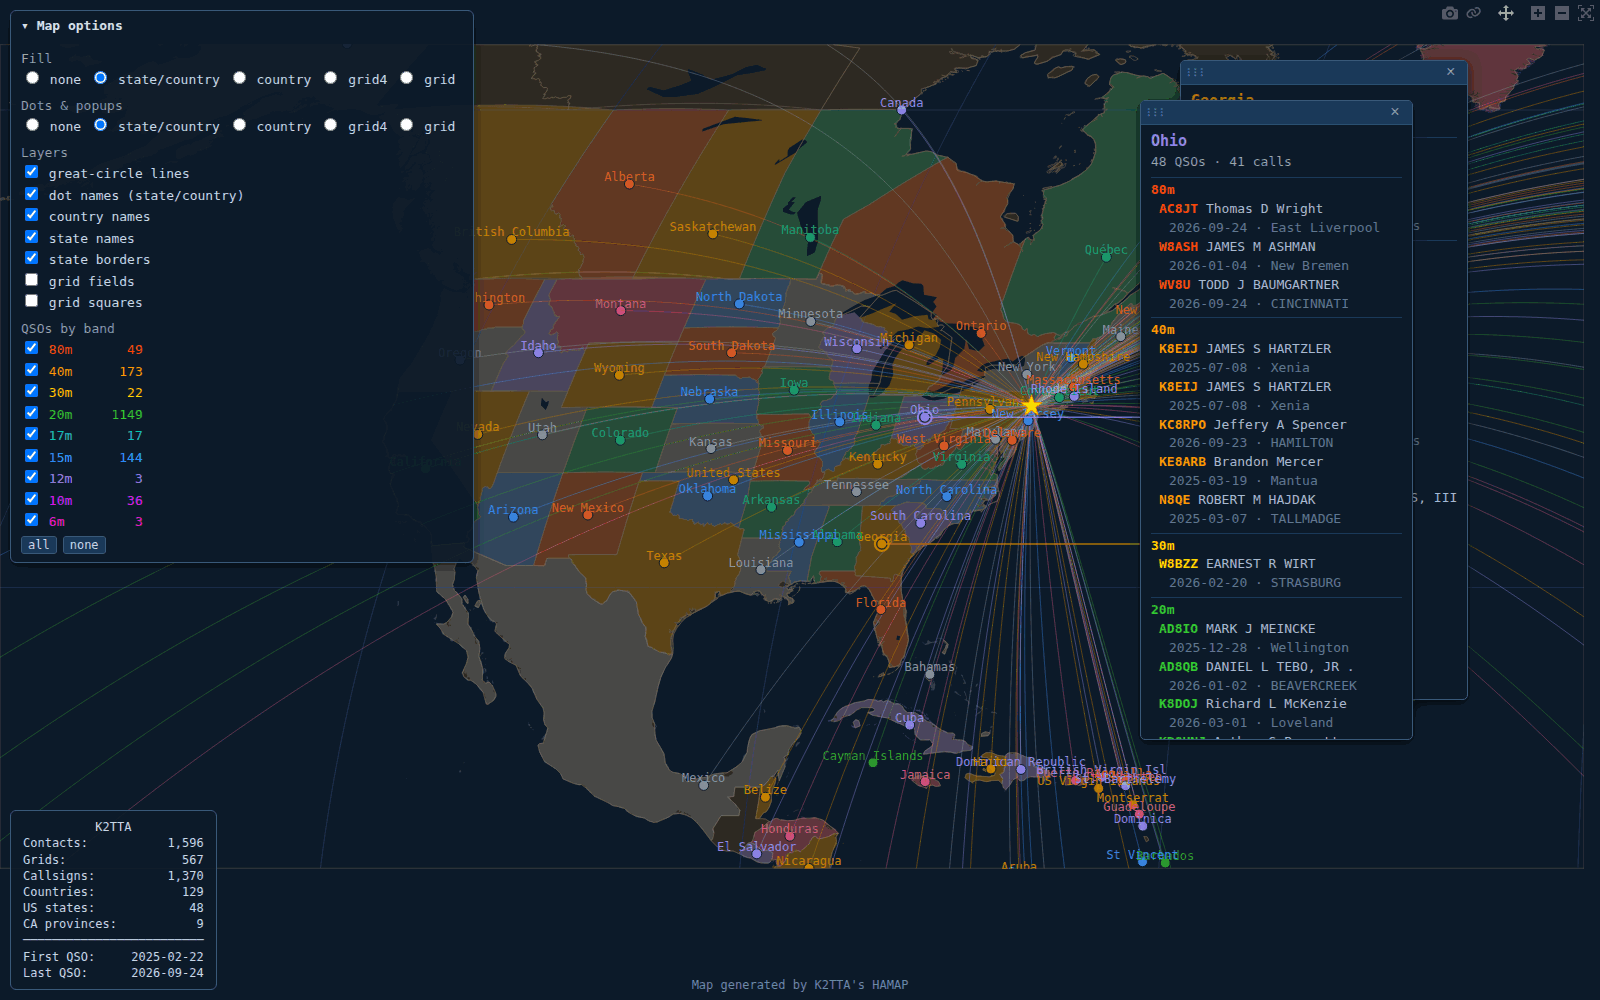
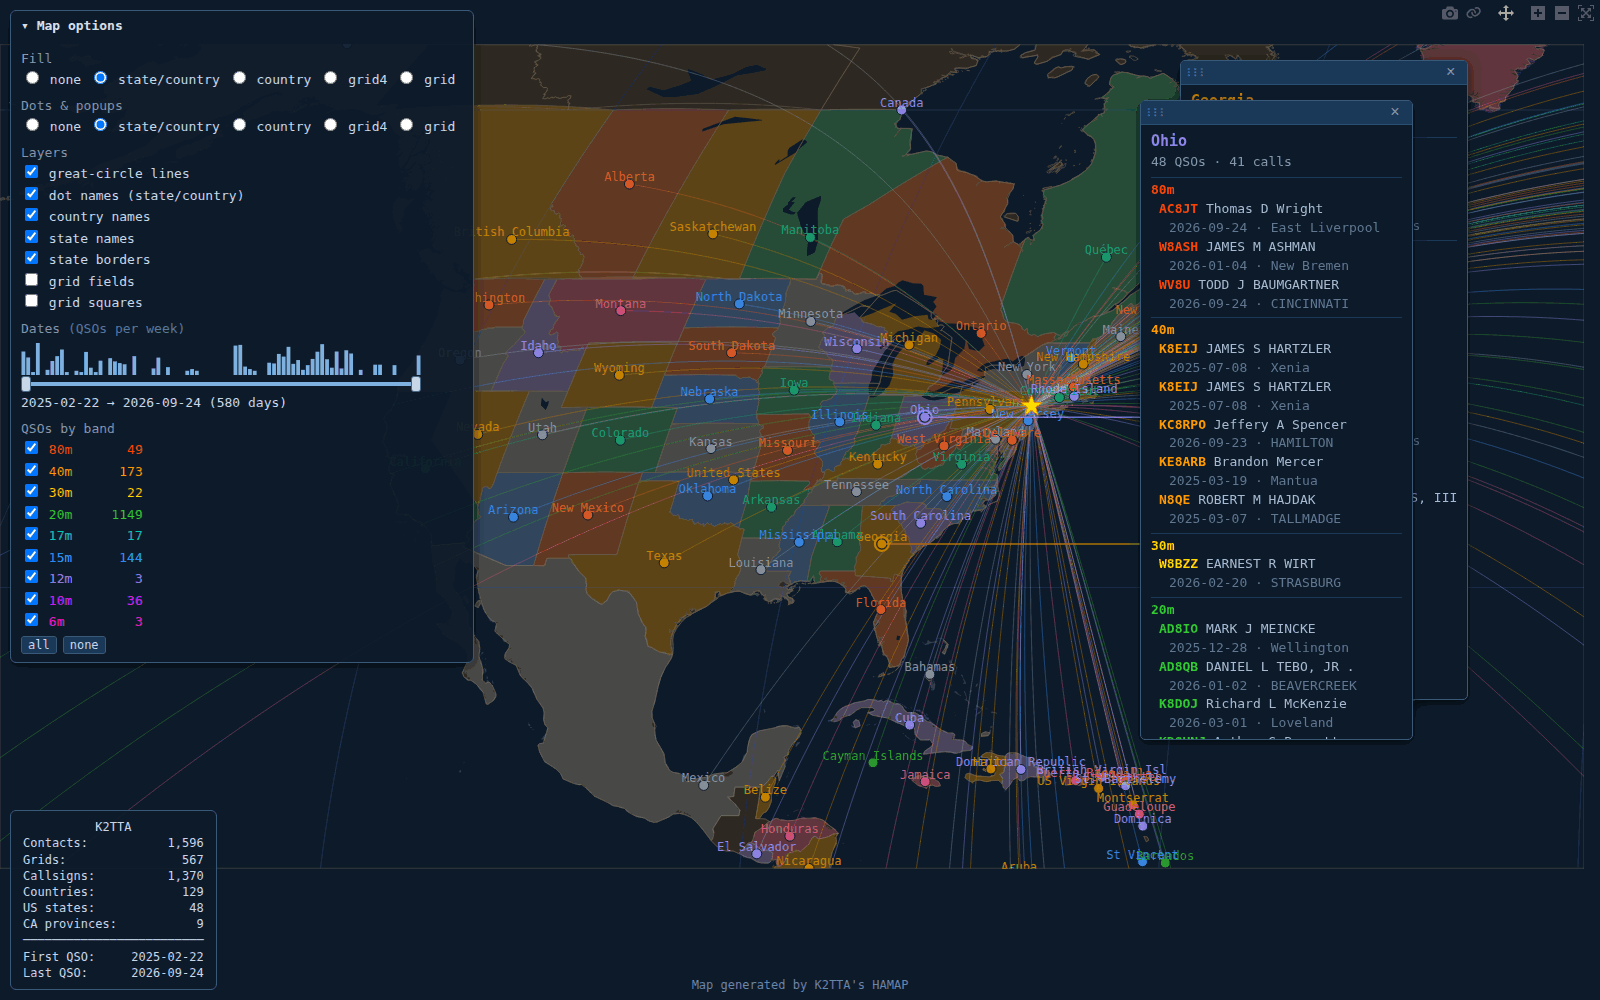
html date range

diff --git a/hamap.py b/hamap.py
@@ -1753,6 +1753,25 @@ def assign_colors(index, cu, groups, boxes_px, ll_to_px, char_px, log):
     return {k: REGION_PALETTE[color[k]] for k in keys}
 
 
+def _station_call(qsos_with_pos):
+    return next((qso.get(f) for qso, _ in qsos_with_pos
+                 for f in ('STATION_CALLSIGN', 'OPERATOR') if qso.get(f)), '')
+
+
+def _filter_rows(args):
+    """(label, value) rows describing the command-line QSO filters in effect."""
+    rows = []
+    if getattr(args, 'start', None):
+        rows.append(('Start:', _fmt_date(args.start)))
+    if getattr(args, 'end', None):
+        rows.append(('End:', _fmt_date(args.end)))
+    if getattr(args, 'tail_days', None) is not None:
+        rows.append(('Tail days:', f"{args.tail_days:,}"))
+    if getattr(args, 'tail', None) is not None:
+        rows.append(('Tail recs:', f"{args.tail:,}"))
+    return rows
+
+
 def _summary_text(qsos_with_pos, args, index=None):
     """Multi-line text for the statistics box (station, counts, dates, filters)."""
     total       = len(qsos_with_pos)
@@ -1766,8 +1785,7 @@ def _summary_text(qsos_with_pos, args, index=None):
 
     dates = sorted(qso.get('QSO_DATE', '') for qso, _ in qsos_with_pos
                    if qso.get('QSO_DATE'))
-    station = next((qso.get(f) for qso, _ in qsos_with_pos
-                    for f in ('STATION_CALLSIGN', 'OPERATOR') if qso.get(f)), '')
+    station = _station_call(qsos_with_pos)
 
     # (label, value) rows; None is a separator rule
     rows = [('Contacts:', f"{total:,}"),
@@ -1794,15 +1812,7 @@ def _summary_text(qsos_with_pos, args, index=None):
         rows += [None, ('First QSO:', _fmt_date(dates[0])),
                  ('Last QSO:', _fmt_date(dates[-1]))]
 
-    filter_rows = []
-    if getattr(args, 'start', None):
-        filter_rows.append(('Start:', _fmt_date(args.start)))
-    if getattr(args, 'end', None):
-        filter_rows.append(('End:', _fmt_date(args.end)))
-    if getattr(args, 'tail_days', None) is not None:
-        filter_rows.append(('Tail days:', f"{args.tail_days:,}"))
-    if getattr(args, 'tail', None) is not None:
-        filter_rows.append(('Tail recs:', f"{args.tail:,}"))
+    filter_rows = _filter_rows(args)
     if filter_rows:
         rows += [None] + filter_rows
 
@@ -2405,6 +2415,13 @@ def generate_html_plotly(qsos_with_pos, args, home_pos, out_path, log):
             'color': [pal_idx[U['colors'][k]] for k in U['keys']],
             'maj':   maj,
         }
+    # For live stats: real 4-char grids, real countries, US/CA regions
+    k4 = units['grid4']['keys']
+    payload_units['grid4']['real'] = [1 if re.match(r'^[A-R]{2}[0-9]{2}$', k) else 0 for k in k4]
+    payload_units['country']['real'] = [1 if k.startswith('C:') else 0
+                                        for k in units['country']['keys']]
+    payload_units['region']['kind'] = [k[:3] if k[:4] in ('USA-', 'CAN-') else ''
+                                       for k in units['region']['keys']]
 
     # [call, band, name, date, qth].  Deliberately no QSO time: the HTML is
     # meant to be shared, and exact contact times are too much to publish.
@@ -2588,7 +2605,8 @@ def generate_html_plotly(qsos_with_pos, args, home_pos, out_path, log):
         'bandCount': {b: band_qsos[b] for b in bands}, 'bandColor': band_clr,
         'home': list(home_pos) if home_pos else None,
         'lineAlpha': args.line_alpha, 'start': start,
-        'stats': _summary_text(qsos_with_pos, args, index),
+        'station': _station_call(qsos_with_pos).upper(),
+        'filters': _filter_rows(args),
     }
     script = ('var HAMAP = ' + json.dumps(payload, separators=(',', ':')) + ';\n'
               + _HTML_APP_JS)
@@ -2613,6 +2631,29 @@ _HTML_APP_JS = r"""
   var S = JSON.parse(JSON.stringify(H.start));
   S.bands = {}; H.bands.forEach(function (b) { S.bands[b] = true; });
   var pinned = {}, zTop = 10000, gd, panelOpen = true;
+
+  // ---- dates: QSO day numbers (days since 1970), full range, current range --
+  var NQ = H.qsos.length, qDay = new Array(NQ), dMin = Infinity, dMax = -Infinity;
+  function toDay(s) {
+    var m = /^(\d{4})-(\d{2})-(\d{2})$/.exec(s || '');
+    return m ? Date.UTC(+m[1], +m[2] - 1, +m[3]) / 864e5 : null;
+  }
+  function dayStr(d) { return new Date(d * 864e5).toISOString().slice(0, 10); }
+  for (var qi0 = 0; qi0 < NQ; qi0++) {
+    var d0 = toDay(H.qsos[qi0][3]); qDay[qi0] = d0;
+    if (d0 !== null) { if (d0 < dMin) dMin = d0; if (d0 > dMax) dMax = d0; }
+  }
+  var hasDates = dMin <= dMax;
+  S.from = dMin; S.to = dMax;
+  function fullRange() { return !hasDates || (S.from <= dMin && S.to >= dMax); }
+  var dateOk = new Uint8Array(NQ);            // per QSO: inside the date range?
+  function updateDateOk() {
+    var full = fullRange();
+    for (var i = 0; i < NQ; i++) {
+      // undated QSOs show only while the whole range is selected
+      dateOk[i] = full ? 1 : (qDay[i] !== null && qDay[i] >= S.from && qDay[i] <= S.to) ? 1 : 0;
+    }
+  }
   try { if (localStorage.getItem('hamap.panel') === '0') panelOpen = false; } catch (e) {}
 
   // ---- URL hash: #fill=..&dots=..&bands=20m,40m&lines=0&pin=Ohio ----------
@@ -2625,12 +2666,14 @@ _HTML_APP_JS = r"""
     else if (k === 'pin') pinReq = v.split(',');
     else if (k === 'panel') panelOpen = v !== '0';
     else if (k === 'view') S.view = v.split(',').map(Number);   // lat,lon,zoom
+    else if ((k === 'from' || k === 'to') && toDay(v) !== null && hasDates)
+      S[k] = Math.min(dMax, Math.max(dMin, toDay(v)));
     else if (k in S) S[k] = (v === '1' || v === 'true' || v === 'on');
   });
 
   function esc(s) { return String(s).replace(/[&<>"]/g, function (c) {
     return {'&': '&amp;', '<': '&lt;', '>': '&gt;', '"': '&quot;'}[c]; }); }
-  function active(qi) { return S.bands[H.qsos[qi][1]]; }
+  function active(qi) { return dateOk[qi] && S.bands[H.qsos[qi][1]]; }
   function groupActive(u, gi) { return H.units[u].q[gi].some(active); }
   function colorUnit() {
     var us = [S.dots, S.fill].filter(function (u) { return u && u !== 'none'; });
@@ -2664,6 +2707,8 @@ _HTML_APP_JS = r"""
   // ---- render: rebuild every dynamic trace from the state -----------------
   function render() {
     var D = gd.data;
+    if (S.from > S.to) { var t = S.from; S.from = S.to; S.to = t; }
+    updateDateOk();
     H.order.forEach(function (u) {
       var U = H.units[u], n = U.label.length;
       // fill
@@ -2716,6 +2761,7 @@ _HTML_APP_JS = r"""
     Plotly.react(gd, D, gd.layout);
     Object.keys(pinned).forEach(function (k) { pinned[k].refresh(); });
     if (gd) reposition();
+    updatePanelCounts();
     writeHash();
   }
 
@@ -2726,6 +2772,7 @@ _HTML_APP_JS = r"""
     ['lines', 'labels', 'cnames', 'snames', 'borders', 'gfields', 'gsquares'].forEach(function (k) {
       if (S[k] !== H.start[k]) h += '&' + k + '=' + (S[k] ? 1 : 0);
     });
+    if (!fullRange()) h += '&from=' + dayStr(S.from) + '&to=' + dayStr(S.to);
     if (S.view) h += '&view=' + S.view.map(function (x) { return +x.toFixed(2); }).join(',');
     history.replaceState(null, '', '#' + h);
   }
@@ -2739,7 +2786,7 @@ _HTML_APP_JS = r"""
     var h = '<div style="font-weight:bold;color:' + c + ';font-size:15px">' + esc(U.label[gi]) + '</div>'
           + '<div style="color:#8899aa;margin-bottom:6px">' + qs.length + ' QSO' + (qs.length === 1 ? '' : 's')
           + ' · ' + Object.keys(calls).length + ' call' + (Object.keys(calls).length === 1 ? '' : 's') + '</div>';
-    if (!qs.length) return h + '<div style="color:#8899aa">No QSOs on the selected bands</div>';
+    if (!qs.length) return h + '<div style="color:#8899aa">No QSOs on the selected bands / dates</div>';
     H.bands.forEach(function (b) {
       var rows = byBand[b]; if (!rows) return;
       rows.sort(function (x, y) { return (x[0] + x[3]).localeCompare(y[0] + y[3]); });
@@ -2892,12 +2939,14 @@ _HTML_APP_JS = r"""
       if (x[1] === 'lines' && !H.home) return;
       lay.appendChild(check(x[0], x[1])[0]); });
     body.appendChild(lay);
+    if (hasDates) body.appendChild(datesSection());
     var bd = document.createElement('div');
     bd.innerHTML = '<div style="color:#8899aa;margin-top:6px">QSOs by band</div>';
     var boxes = [];
     H.bands.forEach(function (b) {
-      var w = check((b + '        ').slice(0, 6) + String(H.bandCount[b]).padStart(6), '#' + b, H.bandColor[b]);
+      var w = check(bandLabel(b, H.bandCount[b]), '#' + b, H.bandColor[b]);
       w[0].style.whiteSpace = 'pre'; boxes.push([b, w[1]]); bd.appendChild(w[0]);
+      bandText[b] = w[0].lastChild;
     });
     var btns = document.createElement('div'); btns.style.marginTop = '3px';
     [['all', true], ['none', false]].forEach(function (x) {
@@ -2913,9 +2962,153 @@ _HTML_APP_JS = r"""
     return p;
   }
 
+  function statsText() {
+    var calls = {}, g4 = {}, ct = {}, us = {}, ca = {}, n = 0, lo = Infinity, hi = -Infinity;
+    for (var i = 0; i < NQ; i++) {
+      if (!active(i)) continue;
+      n++; calls[H.qsos[i][0]] = 1;
+      if (H.units.grid4.real[qUnit.grid4[i]]) g4[qUnit.grid4[i]] = 1;
+      if (H.units.country.real[qUnit.country[i]]) ct[qUnit.country[i]] = 1;
+      var kind = H.units.region.kind[qUnit.region[i]];
+      if (kind === 'USA') us[qUnit.region[i]] = 1; else if (kind === 'CAN') ca[qUnit.region[i]] = 1;
+      if (qDay[i] !== null) { if (qDay[i] < lo) lo = qDay[i]; if (qDay[i] > hi) hi = qDay[i]; }
+    }
+    function cnt(o) { return Object.keys(o).length.toLocaleString('en-US'); }
+    var rows = [['Contacts:', n.toLocaleString('en-US')], ['Grids:', cnt(g4)],
+                ['Callsigns:', cnt(calls)], ['Countries:', cnt(ct)]];
+    if (Object.keys(us).length) rows.push(['US states:', cnt(us)]);
+    if (Object.keys(ca).length) rows.push(['CA provinces:', cnt(ca)]);
+    if (lo <= hi) rows.push(null, ['First QSO:', dayStr(lo)], ['Last QSO:', dayStr(hi)]);
+    if (H.filters.length) { rows.push(null); rows = rows.concat(H.filters); }
+    var w = 0, vw = 0;
+    rows.forEach(function (r) { if (r) { w = Math.max(w, r[0].length + 2); vw = Math.max(vw, r[1].length); } });
+    var out = [];
+    if (H.station) {
+      var pad = Math.max(0, w + vw - H.station.length), l = Math.floor(pad / 2);
+      out.push(' '.repeat(l) + H.station + ' '.repeat(pad - l));
+    }
+    rows.forEach(function (r) {
+      out.push(r ? (r[0] + ' '.repeat(w)).slice(0, w) + (' '.repeat(vw) + r[1]).slice(-vw)
+                 : '\u2500'.repeat(w + vw));
+    });
+    return out.join('\n');
+  }
+
+  var bandText = {}, statsEl = null, dateUI = null;
+  function bandLabel(b, n) { return (b + '        ').slice(0, 6) + String(n).padStart(6); }
+
+  // QSO index → group index, per unit (for live stats)
+  var qUnit = {};
+  H.order.forEach(function (u) {
+    var a = new Int32Array(NQ);
+    H.units[u].q.forEach(function (qs, gi) { qs.forEach(function (qi) { a[qi] = gi; }); });
+    qUnit[u] = a;
+  });
+
+  // ---- Dates: activity histogram + two-handle day slider ---------------------
+  function datesSection() {
+    var span = dMax - dMin + 1, bin = span <= 120 ? 1 : span <= 1100 ? 7 : 30;
+    var nb = Math.ceil(span / bin), W = 400, Hh = 34, dpr = window.devicePixelRatio || 1;
+    var d = document.createElement('div');
+    d.innerHTML = '<div style="color:#8899aa;margin-top:6px">Dates <span style="color:#5a7a9a">'
+      + '(QSOs per ' + (bin === 1 ? 'day' : bin === 7 ? 'week' : 'month') + ')</span></div>';
+    var cv = document.createElement('canvas');
+    cv.width = W * dpr; cv.height = Hh * dpr;
+    cv.style.cssText = 'display:block;width:' + W + 'px;height:' + Hh + 'px;margin-top:3px';
+    var wrap = document.createElement('div');
+    wrap.style.cssText = 'position:relative;width:' + W + 'px;height:18px';
+    var track = document.createElement('div');
+    track.style.cssText = 'position:absolute;left:0;right:0;top:8px;height:2px;background:#2a4058';
+    var sel = document.createElement('div');
+    sel.style.cssText = 'position:absolute;top:7px;height:4px;background:#7fb0e0;border-radius:2px';
+    wrap.appendChild(track); wrap.appendChild(sel);
+    function slider(key) {
+      var r = document.createElement('input');
+      r.type = 'range'; r.className = 'hm-range'; r.min = dMin; r.max = dMax; r.step = 1;
+      r.value = S[key];
+      r.oninput = function () {
+        S[key] = +r.value;
+        // a handle pushes the other along instead of stopping at it, so two
+        // handles on the same day can always be pulled apart again
+        if (S.from > S.to) {
+          if (key === 'from') { S.to = S.from; dateUI.rTo.value = S.to; }
+          else { S.from = S.to; dateUI.rFrom.value = S.from; }
+        }
+        drawDates(); scheduleRender();
+      };
+      r.onchange = function () { renderNow(); };
+      wrap.appendChild(r);
+      return r;
+    }
+    var rFrom = slider('from'), rTo = slider('to');
+    var lab = document.createElement('div');
+    lab.style.cssText = 'display:flex;justify-content:space-between;width:' + W + 'px;color:#c8d8e8';
+    var txt = document.createElement('span');
+    var rst = document.createElement('a');
+    rst.textContent = 'all dates'; rst.href = '#';
+    rst.style.cssText = 'color:#6a9ac8;text-decoration:none';
+    rst.onclick = function (e) {
+      e.preventDefault(); S.from = dMin; S.to = dMax; rFrom.value = dMin; rTo.value = dMax;
+      drawDates(); renderNow();
+    };
+    lab.appendChild(txt); lab.appendChild(rst);
+    d.appendChild(cv); d.appendChild(wrap); d.appendChild(lab);
+    dateUI = {cv: cv, sel: sel, txt: txt, rst: rst, rFrom: rFrom, rTo: rTo,
+              bin: bin, nb: nb, W: W, H: Hh, dpr: dpr, counts: null};
+    return d;
+  }
+
+  function histCounts() {          // QSOs on ticked bands, per bin
+    var c = new Array(dateUI.nb).fill(0);
+    for (var i = 0; i < NQ; i++) {
+      if (qDay[i] === null || !S.bands[H.qsos[i][1]]) continue;
+      c[Math.floor((qDay[i] - dMin) / dateUI.bin)]++;
+    }
+    dateUI.counts = c;
+  }
+
+  function drawDates() {
+    if (!dateUI) return;
+    var U = dateUI, g = U.cv.getContext('2d'), c = U.counts, mx = Math.max.apply(null, c.concat([1]));
+    g.setTransform(U.dpr, 0, 0, U.dpr, 0, 0);
+    g.clearRect(0, 0, U.W, U.H);
+    var bw = U.W / U.nb;
+    for (var b = 0; b < U.nb; b++) {
+      if (!c[b]) continue;
+      var d0 = dMin + b * U.bin, inR = d0 + U.bin - 1 >= S.from && d0 <= S.to;
+      var h = Math.max(1.5, (U.H - 2) * Math.sqrt(c[b] / mx));   // sqrt: quiet weeks stay visible
+      g.fillStyle = inR ? '#7fb0e0' : '#2e4a66';
+      g.fillRect(b * bw + (bw > 3 ? 0.5 : 0), U.H - h, Math.max(1, bw - (bw > 3 ? 1 : 0)), h);
+    }
+    var span = Math.max(1, dMax - dMin);
+    U.sel.style.left = ((S.from - dMin) / span * 100) + '%';
+    U.sel.style.width = ((S.to - S.from) / span * 100) + '%';
+    var days = S.to - S.from + 1;
+    U.txt.textContent = dayStr(S.from) + ' \u2192 ' + dayStr(S.to) + '  (' + days + ' day' + (days === 1 ? '' : 's') + ')';
+    U.rst.style.visibility = fullRange() ? 'hidden' : 'visible';
+  }
+
+  // Dragging redraws the map a few times a second, then once more on release
+  var pend = null, lastRender = 0;
+  function scheduleRender() {
+    if (pend) return;
+    pend = setTimeout(function () { pend = null; render(); },
+                      Math.max(0, 150 - (Date.now() - lastRender)));
+  }
+  function renderNow() { if (pend) { clearTimeout(pend); pend = null; } render(); }
+
+  function updatePanelCounts() {
+    lastRender = Date.now();
+    var per = {};
+    for (var i = 0; i < NQ; i++) if (dateOk[i]) per[H.qsos[i][1]] = (per[H.qsos[i][1]] || 0) + 1;
+    H.bands.forEach(function (b) { if (bandText[b]) bandText[b].nodeValue = ' ' + bandLabel(b, per[b] || 0); });
+    if (statsEl) statsEl.textContent = statsText();
+    if (dateUI) { histCounts(); drawDates(); }
+  }
+
   function stats() {
     var s = document.createElement('pre');
-    s.textContent = H.stats;
+    statsEl = s;
     s.style.cssText = 'position:absolute;left:10px;bottom:10px;z-index:8000;margin:0;padding:8px 12px;'
       + 'background:rgba(13,27,42,.9);border:1px solid #3a5a7a;border-radius:6px;'
       + 'font:12px/1.35 monospace;color:#c8d8e8;pointer-events:none';
@@ -2940,6 +3133,16 @@ _HTML_APP_JS = r"""
     document.body.style.margin = '0';
     document.body.style.background = H.bg;
     document.body.style.overflow = 'hidden';
+    var css = document.createElement('style');
+    css.textContent = '.hm-range{position:absolute;left:0;top:0;width:100%;height:18px;margin:0;'
+      + 'background:none;pointer-events:none;-webkit-appearance:none;appearance:none}'
+      + '.hm-range::-webkit-slider-runnable-track{background:none;height:18px}'
+      + '.hm-range::-moz-range-track{background:none}'
+      + '.hm-range::-webkit-slider-thumb{pointer-events:auto;-webkit-appearance:none;width:10px;'
+      + 'height:16px;margin-top:1px;border-radius:3px;background:#c8d8e8;border:1px solid #4a6a8a;cursor:ew-resize}'
+      + '.hm-range::-moz-range-thumb{pointer-events:auto;width:10px;height:16px;border-radius:3px;'
+      + 'background:#c8d8e8;border:1px solid #4a6a8a;cursor:ew-resize}';
+    document.head.appendChild(css);
     gd.style.position = 'relative';
     gd.appendChild(panel()); gd.appendChild(stats()); gd.appendChild(credit());
     gd.on('plotly_click', function (ev) {

diff --git a/README.md b/README.md
@@ -278,7 +278,10 @@ A collapsible panel (top left; click **Map options** to fold it away — the pag
 - **Fill** — none, state/country, country, grid4 or grid
 - **Dots & popups** — what one dot and its popup cover: none, state/country, country, grid4 or grid
 - **Layers** — great-circle lines, dot names (state/country dots), country names, state names, state borders, Maidenhead grid fields and squares
-- **QSOs by band** — per-band QSO counts; untick a band to hide its QSOs everywhere (dots, fills, lines and popups), with **all** / **none** shortcuts
+- **Dates** — an activity histogram (QSOs per day, week or month, depending on the log's span) with a two-handle slider that steps by day; only QSOs inside the range are shown, and **all dates** resets it. The page always opens on the full range. QSOs without a date show only while the full range is selected. (`--start` / `--end` still filter the log itself before the map is built.)
+- **QSOs by band** — per-band QSO counts for the selected dates; untick a band to hide its QSOs everywhere (dots, fills, lines, popups and the histogram), with **all** / **none** shortcuts
+
+The band and date filters apply everywhere at once, and the **stats** panel (bottom left) is recomputed live for what is shown.
 
 Colours follow the same rule as image mode ([Map Content](#map-content)): the coarser of the dot and fill units, with neighbours always distinct. Plain `--html` opens with **Fill = state/country** and **Dots = grid4**. The command-line options (`--fill`, `--boxes`, `--names`, `--borders`, `--grid-lines`, `--no-lines`) and a profile chosen by name (`--profile`, or the config file's default) set the panel's **starting state** instead; image-only options (`--width`, `--dpi`, `--font-size`, `--ocean-boxes`, `--box-calls`) are ignored. `--extent poles` trims the starting view; otherwise the whole world is shown — zoom from there.
 
@@ -287,17 +290,16 @@ Colours follow the same rule as image mode ([Map Content](#map-content)): the co
 - **Scroll / pinch** to zoom, **drag** to pan; the toolbar's reset button (top right) resets the view and closes all popups
 - **Hover** a dot for its name and QSO / callsign counts
 - **Click** a dot to **pin a popup**: QSOs in band rows (lowest band first), each with callsign and name, date and QTH. (QSO times are deliberately left out of the HTML, since the file is meant to be shared.) Popups follow the band filter live, scroll when long, stay attached to their dot as you pan and zoom (a thin leader and ring mark the dot), can be **dragged** by their title bar to a different spot relative to the dot, and close with **×** or a second click on the dot. Several can be open at once — handy for annotated screenshots.
-- The **stats** panel (bottom left) matches the image-mode stats box.
 
 ### Shareable views
 
 The page keeps its state in the URL hash, so a view can be bookmarked or shared, e.g.:
 
 ```
-contacts.html#fill=region&dots=region&view=38,-92,3.2&bands=20m,40m&pin=Ohio,Texas
+contacts.html#fill=region&dots=region&view=38,-92,3.2&bands=20m,40m&from=2025-06-01&to=2025-08-31&pin=Ohio,Texas
 ```
 
-Keys: `fill`, `dots` (unit names as above, `region` = state/country), `bands` (comma-separated, only those shown), `view=LAT,LON,ZOOM` (updated as you pan and zoom), `pin` (dot names to open popups for), `panel=0` (start folded), and `lines`, `labels`, `cnames`, `snames`, `borders`, `gfields`, `gsquares` (`1`/`0`).
+Keys: `fill`, `dots` (unit names as above, `region` = state/country), `bands` (comma-separated, only those shown), `from` / `to` (`YYYY-MM-DD`), `view=LAT,LON,ZOOM` (updated as you pan and zoom), `pin` (dot names to open popups for), `panel=0` (start folded), and `lines`, `labels`, `cnames`, `snames`, `borders`, `gfields`, `gsquares` (`1`/`0`).
 
 ## Location Resolution
 
